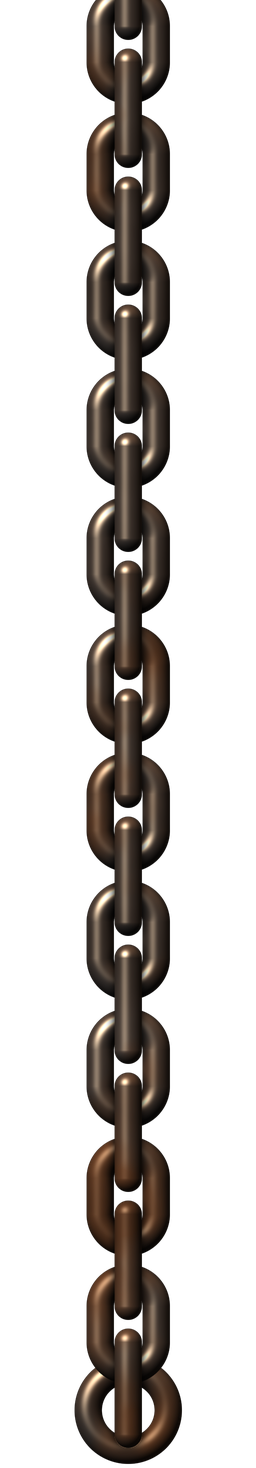
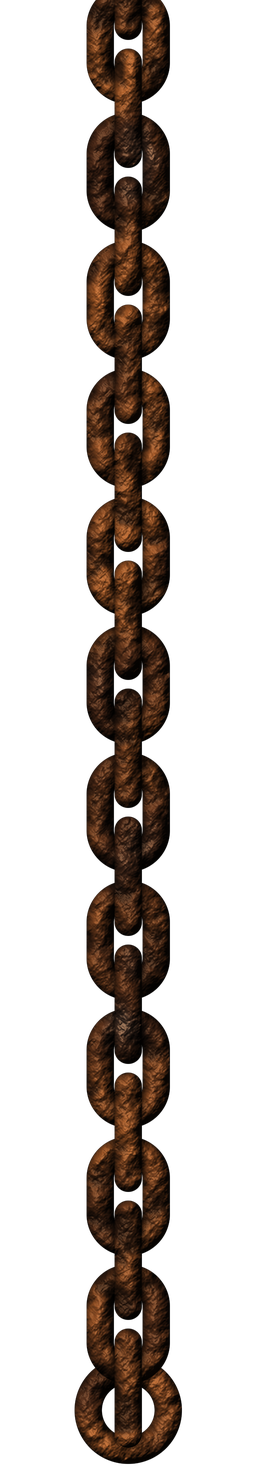
Accueil : chaînes rouillées assorties à l'anneau du crâne
Claude-Session: https://claude.ai/code/session_016J9VLX1fiPLFcAPYid8ZLe

Changed region(s): [[0.2812, 0.0, 0.7188, 1.0]]

diff --git a/README.md b/README.md
@@ -24,7 +24,7 @@ Un jeu de donjon en vue subjective et en 3D : on mène un groupe de quatre héro
 - **Donjons aléatoires** réglables (difficulté, taille, nombre de niveaux) et **éditeur de niveaux** intégré ; les donjons se partagent par code. À l'arrivée dans un niveau, aucun monstre n'est placé près du départ et tous restent calmes une douzaine de secondes : le joueur a le temps de s'orienter.
 - **Raretés** : les objets d'équipement sont communs, inhabituels, rares, épiques, légendaires ou mythiques (couleur du nom et du cadre) ; chaque palier ajoute des capacités (critique, esquive, vol de vie, exécution, dernier souffle…). Les gardiens laissent au moins du rare, et un légendaire finit toujours par tomber.
 - **Village** : forge, Maître des Talents, marchands itinérants et boutique. Chez le marchand, le bouton d'achat ou de vente est en haut de la fiche de l'objet, et la **sélection multiple** permet de vendre plusieurs objets d'un coup. Les armes et équipements proposés varient en puissance, avec toujours au moins une **belle affaire** nettement meilleure que ce que porte déjà le groupe : acheter reste intéressant à haut niveau.
-- **Interface de jeu (identité « Atlas Noir »)** : refonte complète de l'écran de jeu d'après la maquette — bande du haut (emblème de boussole, titre, repère central « NIVEAU n / NOM » entre deux filets à losanges, commandes en capitales fines) ; colonne de gauche « Carte » (plan, légende à deux colonnes) ; vue 3D au centre avec une réglette d'orientation N/E/S/O en bas ; fiches de héros dessous (portrait, nom en Cinzel, PV rouges et endurance/mana, repère ambre pour le héros actif) ; colonne de droite « Inventaire commun » (six onglets à icône, grille de cases avec quantité en bas à droite, or, total et bouton « Inventaire »), « Carnet » sur parchemin (« Journal des événements ») et raccourcis en cercles numérotés (attaque + sorts 1 à 6) ; file d'initiative en filet fin à losanges ; plus de flammes ni de chaînes. Titre « DONJON / ATLAS NOIR » sur deux lignes ; fond noir uni (plus de texture brune) ; la file d'initiative s'affiche en bas de la vue pendant le combat (sous la barre de vie des monstres) puis disparaît ; le volet d'équipement du personnage a son cadre en bois remplacé par un cadre Atlas ; la vue 3D occupe toute la largeur de l'écran et les panneaux latéraux (carte transparente à gauche, inventaire et carnet à droite) sont posés par-dessus ; le bord haut de la vue « décroche » au-dessus de la carte ; fiches de héros à barres en biais, chiffres à droite ; Carnet en parchemin grainé. Palette obsidienne / ardoise / cuivre / ivoire / ambre, polices Cinzel + Spectral. Le portrait mobile reprend la même identité. Menu d'en-tête en icônes (Guide, Paramètres, Sauvegarde, puis ≡ pour Accueil / Compte / Admin / Langue / Quitter) ; le repère central affiche « NIVEAU n / nom du donjon » ; portraits détourés sur fond noir ; ascenseurs fins à curseur clair ; bouton de tchat réduit ; en jeu, modales et infobulles reprennent le décor Atlas (cadres à angles coupés, filet cuivre) ; au lancement d'un sort de soin, la fiche de héros survolée s'illumine. En combat : file d'initiative entière, posée au-dessus du chronomètre de tour ; barre de vie des monstres plus basse, en biais et rouge comme celles des héros ; pastille « Pause » tout en haut au centre ; colonnes de droite encore plus étroites. Ronds de sorts à anneau dégradé cuivre/ardoise avec repères et halo ambre au survol ; croix directionnelle réservée au mobile ; compteur de l'inventaire par catégorie (possédé / 12) ; barre de vie des monstres très fine, posée au-dessus de leur tête ; potions et parchemins rangés en largeur sous le carnet en combat ; repère de niveau descendu dans le décroché. Nouvelle boussole haute résolution (en-tête et pied de la carte) ; ronds de sorts plus gros sur deux rangées, qui s'allument quand on presse leur touche ; fiche de héros ciblable surlignée en ambre vif (halo, repères d'angle) ; besace à 5 catégories de 12 emplacements (armes, armures, potions, parchemins, clés), l'onglet « Tout » en affiche la somme (60). Coffres et leviers ne se déclenchent plus en marchant dessus : clic sur l'objet ou touche d'action (F par défaut, réglable dans Paramètres › Commandes), avec une invite « [F] Ouvrir le coffre » dans la vue ; le butin d'un coffre jaillit d'un saut et retombe en éventail devant lui sans jamais s'empiler, et ce qui ne tient pas dans la besace (ou tombe d'un monstre) reste au sol, ramassable plus tard ; levier mural remodelé en haute définition. **Techniques ultimes (7e sort)** : chaque classe évoluée (Berserker, Paladin, Mage-Archer, Danselame, Voleur, Assassin, Élémentaliste, Sorcier, Clerc, Croisé, Skalde, Ménestrel, Gardien de la Forêt, Druide de la Tempête) gagne à l'évolution (niveau 5) une technique ultime sur un 7e disque doré de la barre (touches 8 ou R, réglables) : cadenas tant que le héros est de classe de base, puis une jauge qui se remplit en frappant (+10), en encaissant (+6) ou en soutenant (+6) ; jauge pleine, le disque pulse et le sort se lance sans endurance ni recharge, la jauge repart de zéro. L'anneau de la jauge est lumineux et pulse en continu (halo doré, tête incandescente pendant la charge ; une fois pleine, pulsation franche, éclat qui en fait le tour et étincelles). Jauge pleine, un sceau doré « ULTIME » (frère du sceau rouge d'instinct, à l'opposé) apparaît à droite de la vue 3D avec l'icône et le nom du sort : un clic le lance (il se retire pendant une alerte d'instinct). Effets : Rage Sanguinaire, Jugement Divin, Volée Arcanique, Tempête d'Acier (5 frappes), Rafle Éclair (or), Exécution (tue sous 30 % de PV), Cataclysme Élémentaire, Pacte Funeste (vol de vie), Miracle (soin, bouclier et relève d'un héros tombé), Croisade, Chant de Guerre, Berceuse Finale, Racines Ancestrales et Colère du Ciel, avec les effets graphiques et les sons des gros sorts existants. Réglages dans l'atelier : Règles du jeu › Combat › Technique ultime (jauge, niveau, gains), onglet Sorts (interrupteur « Technique ultime » et effets annexes) et onglet Classes (carte « Technique ultime »). **Accueil « Atlas Noir »** : logo (boussole, « ATLAS NOIR », « CARTOGRAPHIE DES PROFONDEURS »), filet à losange et devise « Chaque descente écrit une nouvelle carte. » à gauche ; à droite trois grands boutons à angles coupés (Nouvelle Expédition — « Expédition en ligne » une fois connecté —, Donjon d'Origine, Archives) et un panneau « Outils » (Éditeur de donjon, Importer un fichier JSON, Charger un code, Tutoriel de création) ; pied de page à filet à encoches (version → journal des modifications, crédits). Chaînes refaites en haute définition (maillons métalliques légèrement brillants, rouille discrète), le crâne fourni au bout de celle de gauche ; flammes animées par un shader Godot (additif, bruit fractal) sur la torche et la bougie de gauche et la torche de droite, avec une lueur vacillante. Le titre de l'en-tête devient « ATLAS NOIR » seul (plus de « DONJON »). Le hub et l'administration gardent pour l'instant l'ancien décor.
+- **Interface de jeu (identité « Atlas Noir »)** : refonte complète de l'écran de jeu d'après la maquette — bande du haut (emblème de boussole, titre, repère central « NIVEAU n / NOM » entre deux filets à losanges, commandes en capitales fines) ; colonne de gauche « Carte » (plan, légende à deux colonnes) ; vue 3D au centre avec une réglette d'orientation N/E/S/O en bas ; fiches de héros dessous (portrait, nom en Cinzel, PV rouges et endurance/mana, repère ambre pour le héros actif) ; colonne de droite « Inventaire commun » (six onglets à icône, grille de cases avec quantité en bas à droite, or, total et bouton « Inventaire »), « Carnet » sur parchemin (« Journal des événements ») et raccourcis en cercles numérotés (attaque + sorts 1 à 6) ; file d'initiative en filet fin à losanges ; plus de flammes ni de chaînes. Titre « DONJON / ATLAS NOIR » sur deux lignes ; fond noir uni (plus de texture brune) ; la file d'initiative s'affiche en bas de la vue pendant le combat (sous la barre de vie des monstres) puis disparaît ; le volet d'équipement du personnage a son cadre en bois remplacé par un cadre Atlas ; la vue 3D occupe toute la largeur de l'écran et les panneaux latéraux (carte transparente à gauche, inventaire et carnet à droite) sont posés par-dessus ; le bord haut de la vue « décroche » au-dessus de la carte ; fiches de héros à barres en biais, chiffres à droite ; Carnet en parchemin grainé. Palette obsidienne / ardoise / cuivre / ivoire / ambre, polices Cinzel + Spectral. Le portrait mobile reprend la même identité. Menu d'en-tête en icônes (Guide, Paramètres, Sauvegarde, puis ≡ pour Accueil / Compte / Admin / Langue / Quitter) ; le repère central affiche « NIVEAU n / nom du donjon » ; portraits détourés sur fond noir ; ascenseurs fins à curseur clair ; bouton de tchat réduit ; en jeu, modales et infobulles reprennent le décor Atlas (cadres à angles coupés, filet cuivre) ; au lancement d'un sort de soin, la fiche de héros survolée s'illumine. En combat : file d'initiative entière, posée au-dessus du chronomètre de tour ; barre de vie des monstres plus basse, en biais et rouge comme celles des héros ; pastille « Pause » tout en haut au centre ; colonnes de droite encore plus étroites. Ronds de sorts à anneau dégradé cuivre/ardoise avec repères et halo ambre au survol ; croix directionnelle réservée au mobile ; compteur de l'inventaire par catégorie (possédé / 12) ; barre de vie des monstres très fine, posée au-dessus de leur tête ; potions et parchemins rangés en largeur sous le carnet en combat ; repère de niveau descendu dans le décroché. Nouvelle boussole haute résolution (en-tête et pied de la carte) ; ronds de sorts plus gros sur deux rangées, qui s'allument quand on presse leur touche ; fiche de héros ciblable surlignée en ambre vif (halo, repères d'angle) ; besace à 5 catégories de 12 emplacements (armes, armures, potions, parchemins, clés), l'onglet « Tout » en affiche la somme (60). Coffres et leviers ne se déclenchent plus en marchant dessus : clic sur l'objet ou touche d'action (F par défaut, réglable dans Paramètres › Commandes), avec une invite « [F] Ouvrir le coffre » dans la vue ; le butin d'un coffre jaillit d'un saut et retombe en éventail devant lui sans jamais s'empiler, et ce qui ne tient pas dans la besace (ou tombe d'un monstre) reste au sol, ramassable plus tard ; levier mural remodelé en haute définition. **Techniques ultimes (7e sort)** : chaque classe évoluée (Berserker, Paladin, Mage-Archer, Danselame, Voleur, Assassin, Élémentaliste, Sorcier, Clerc, Croisé, Skalde, Ménestrel, Gardien de la Forêt, Druide de la Tempête) gagne à l'évolution (niveau 5) une technique ultime sur un 7e disque doré de la barre (touches 8 ou R, réglables) : cadenas tant que le héros est de classe de base, puis une jauge qui se remplit en frappant (+10), en encaissant (+6) ou en soutenant (+6) ; jauge pleine, le disque pulse et le sort se lance sans endurance ni recharge, la jauge repart de zéro. L'anneau de la jauge est lumineux et pulse en continu (halo doré, tête incandescente pendant la charge ; une fois pleine, pulsation franche, éclat qui en fait le tour et étincelles). Jauge pleine, un sceau doré « ULTIME » (frère du sceau rouge d'instinct, à l'opposé) apparaît à droite de la vue 3D avec l'icône et le nom du sort : un clic le lance (il se retire pendant une alerte d'instinct). Effets : Rage Sanguinaire, Jugement Divin, Volée Arcanique, Tempête d'Acier (5 frappes), Rafle Éclair (or), Exécution (tue sous 30 % de PV), Cataclysme Élémentaire, Pacte Funeste (vol de vie), Miracle (soin, bouclier et relève d'un héros tombé), Croisade, Chant de Guerre, Berceuse Finale, Racines Ancestrales et Colère du Ciel, avec les effets graphiques et les sons des gros sorts existants. Réglages dans l'atelier : Règles du jeu › Combat › Technique ultime (jauge, niveau, gains), onglet Sorts (interrupteur « Technique ultime » et effets annexes) et onglet Classes (carte « Technique ultime »). **Accueil « Atlas Noir »** : logo (boussole, « ATLAS NOIR », « CARTOGRAPHIE DES PROFONDEURS »), filet à losange et devise « Chaque descente écrit une nouvelle carte. » à gauche ; à droite trois grands boutons à angles coupés (Nouvelle Expédition — « Expédition en ligne » une fois connecté —, Donjon d'Origine, Archives) et un panneau « Outils » (Éditeur de donjon, Importer un fichier JSON, Charger un code, Tutoriel de création) ; pied de page à filet à encoches (version → journal des modifications, crédits). Chaînes refaites en haute définition (maillons rouillés, grain et piqûres, assortis à l'anneau du crâne), le crâne fourni au bout de celle de gauche ; flammes animées par un shader Godot (additif, bruit fractal) sur la torche et la bougie de gauche et la torche de droite, avec une lueur vacillante. Le titre de l'en-tête devient « ATLAS NOIR » seul (plus de « DONJON »). Le hub et l'administration gardent pour l'instant l'ancien décor.
 - **Interface de jeu** : la sauvegarde (emplacements, nouvelle partie, export, import) se trouve dans le menu du haut ; la colonne de droite montre la carte (que l'on peut replier), la besace commune du groupe (texte « pièces d'or » et bouton « Inventaire » en petits caractères, pour rester sur une ligne avec le total) et un grand grimoire des événements, plus lisible, qui occupe toute la place restante.
 - **Sept thèmes** de décor (matériaux, éclairage et ambiance propres à chacun), avec parfois du brouillard. Le Cachot humide a des murs et un plafond de briques brun-vert et un sol de terre rocailleuse, en relief (matériau 3D). Le thème Lave a des murs et un plafond de lave aux fissures incandescentes et un sol de roche. Le Temple ancien a des murs et un plafond de pierres plates et un sol de mousse.
 - **Écrans « jeu vidéo »** : le mode en ligne adopte un style plein cadre (couloir de donjon animé aux torches, onglets à filet doré, grand bouton de lancement, icônes dessinées à la place des emojis, touches Haut/Bas/Entrée/Gauche/Droite/Échap) ; les autres écrans suivent peu à peu, la page d'accueil gardant son style.
